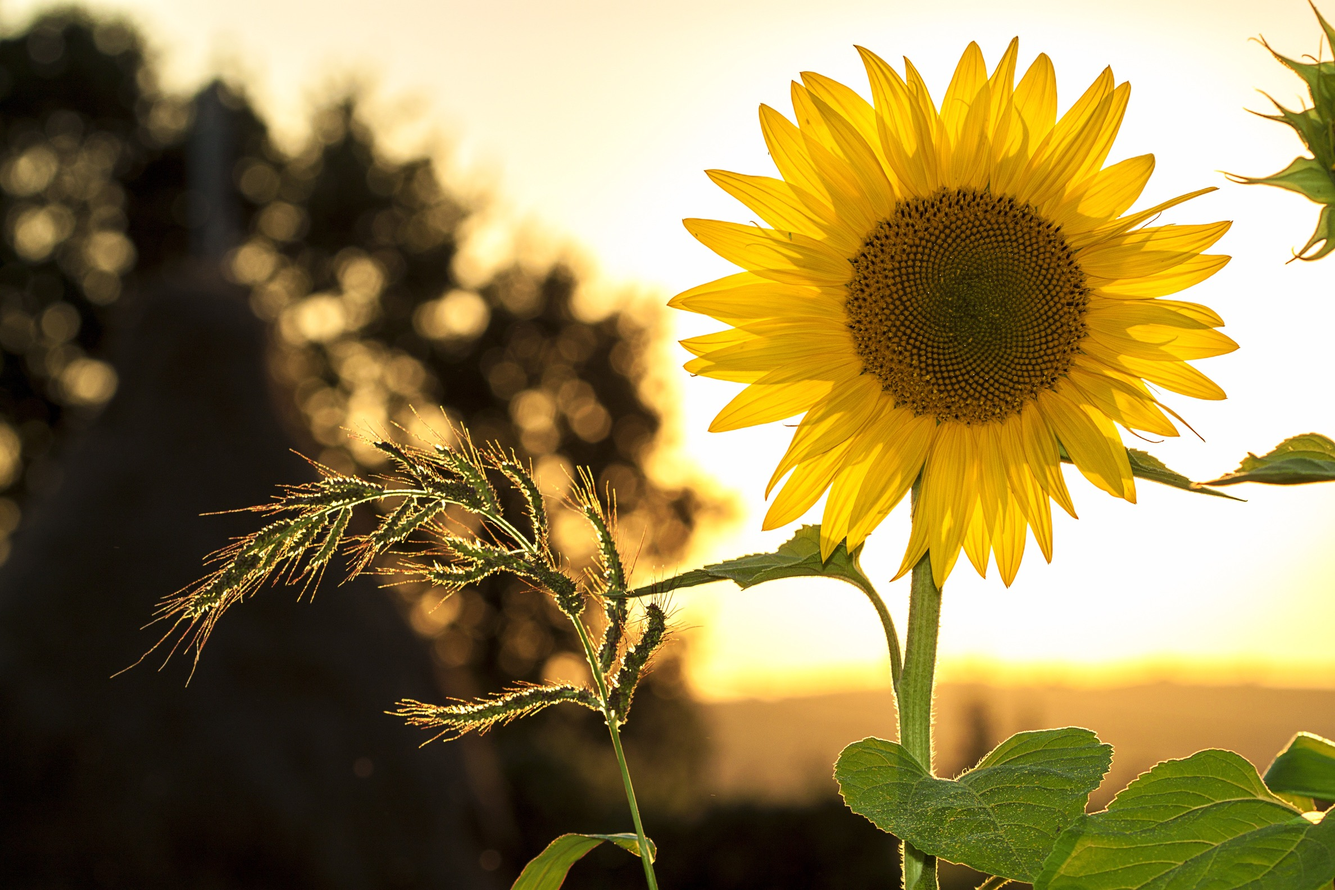
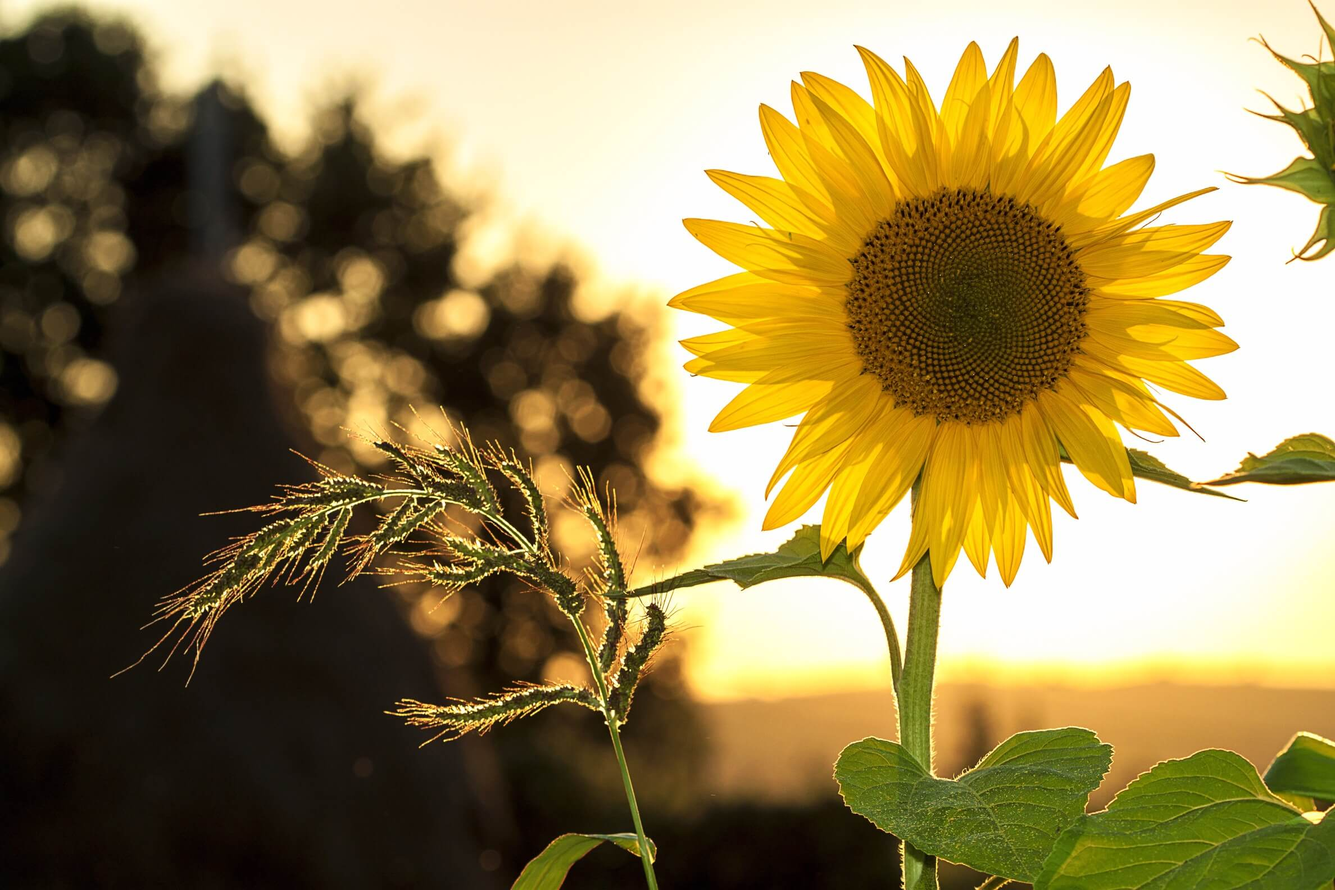
update all images afer reducing file size using tiny.png.com in order to improve google lighthouse performance

diff --git a/assets/css/style.css b/assets/css/style.css
@@ -74,7 +74,7 @@ line-height: 75px;
 
 
 #hero-image {
-    background: url('../images/hero-image.JPG') center center no-repeat;
+    background: url('../images/hero-image.jpg') center center no-repeat;
     height: 600px;
     width:100%;
    
@@ -229,7 +229,7 @@ line-height: 75px;
 
 
 #event-1-outer {
-    background: url('../images/Flower-1.JPG') center center no-repeat;
+    background: url('../images/garden-exhibition.JPG') center center no-repeat;
     background-size: cover;
     height:300px;
     width:375px;
@@ -246,14 +246,14 @@ line-height: 75px;
 }
 
 #event-3-outer {
-    background: url('../images/grow.JPG') center center no-repeat;
+    background: url('../images/grow-with-us.JPG') center center no-repeat;
     background-size: cover;
     height:300px;
     width:375px;
 }
 
 #event-4-outer {
-    background: url('../images/coffee.JPG') center center no-repeat;
+    background: url('../images/coffee-morning.JPG') center center no-repeat;
     background-size: cover;
     height:300px;
     width:375px;
@@ -334,7 +334,7 @@ footer{
 
 .contact-section {
     clear:left;
-    background: url('../images/hero-image6.JPG') center center no-repeat;
+    background: url('../images/contact-us.jpg') center center no-repeat;
     height: 600px;
     color:white;
     background-size: cover;

diff --git a/attractions.html b/attractions.html
@@ -77,14 +77,14 @@
     </div>
     
     <div class="item-4">
-        <img src="assets/images/garden-2.jpg" alt="Picture of a walled garden">
+        <img src="assets/images/walled-garden.jpg" alt="Picture of a walled garden">
     </div>
 
 
 
 
     <div class="item-5">
-        <img src="assets/images/house-2.JPG" alt="Picture of a house">
+        <img src="assets/images/hosue.JPG" alt="Picture of a house">
     </div>
 
     <div class="item-6">
@@ -118,7 +118,7 @@
     </div>
 
     <div class="item-8">
-        <img src="assets/images/waterfall.jpg" alt="Picture of a waterfall">
+        <img src="assets/images/walled-garden.jpg" alt="Picture of a waterfall">
     </div>
     
 </div>

diff --git a/index.html b/index.html
@@ -58,7 +58,7 @@
             </p>
         </div>
         <div id="left-about">
-            <img src="assets/images/garden-1.jpg" alt="Picture of a garden">
+            <img src="assets/images/about.jpg" alt="Picture of a garden">
         </div>
     </section>
     <section id="events">
